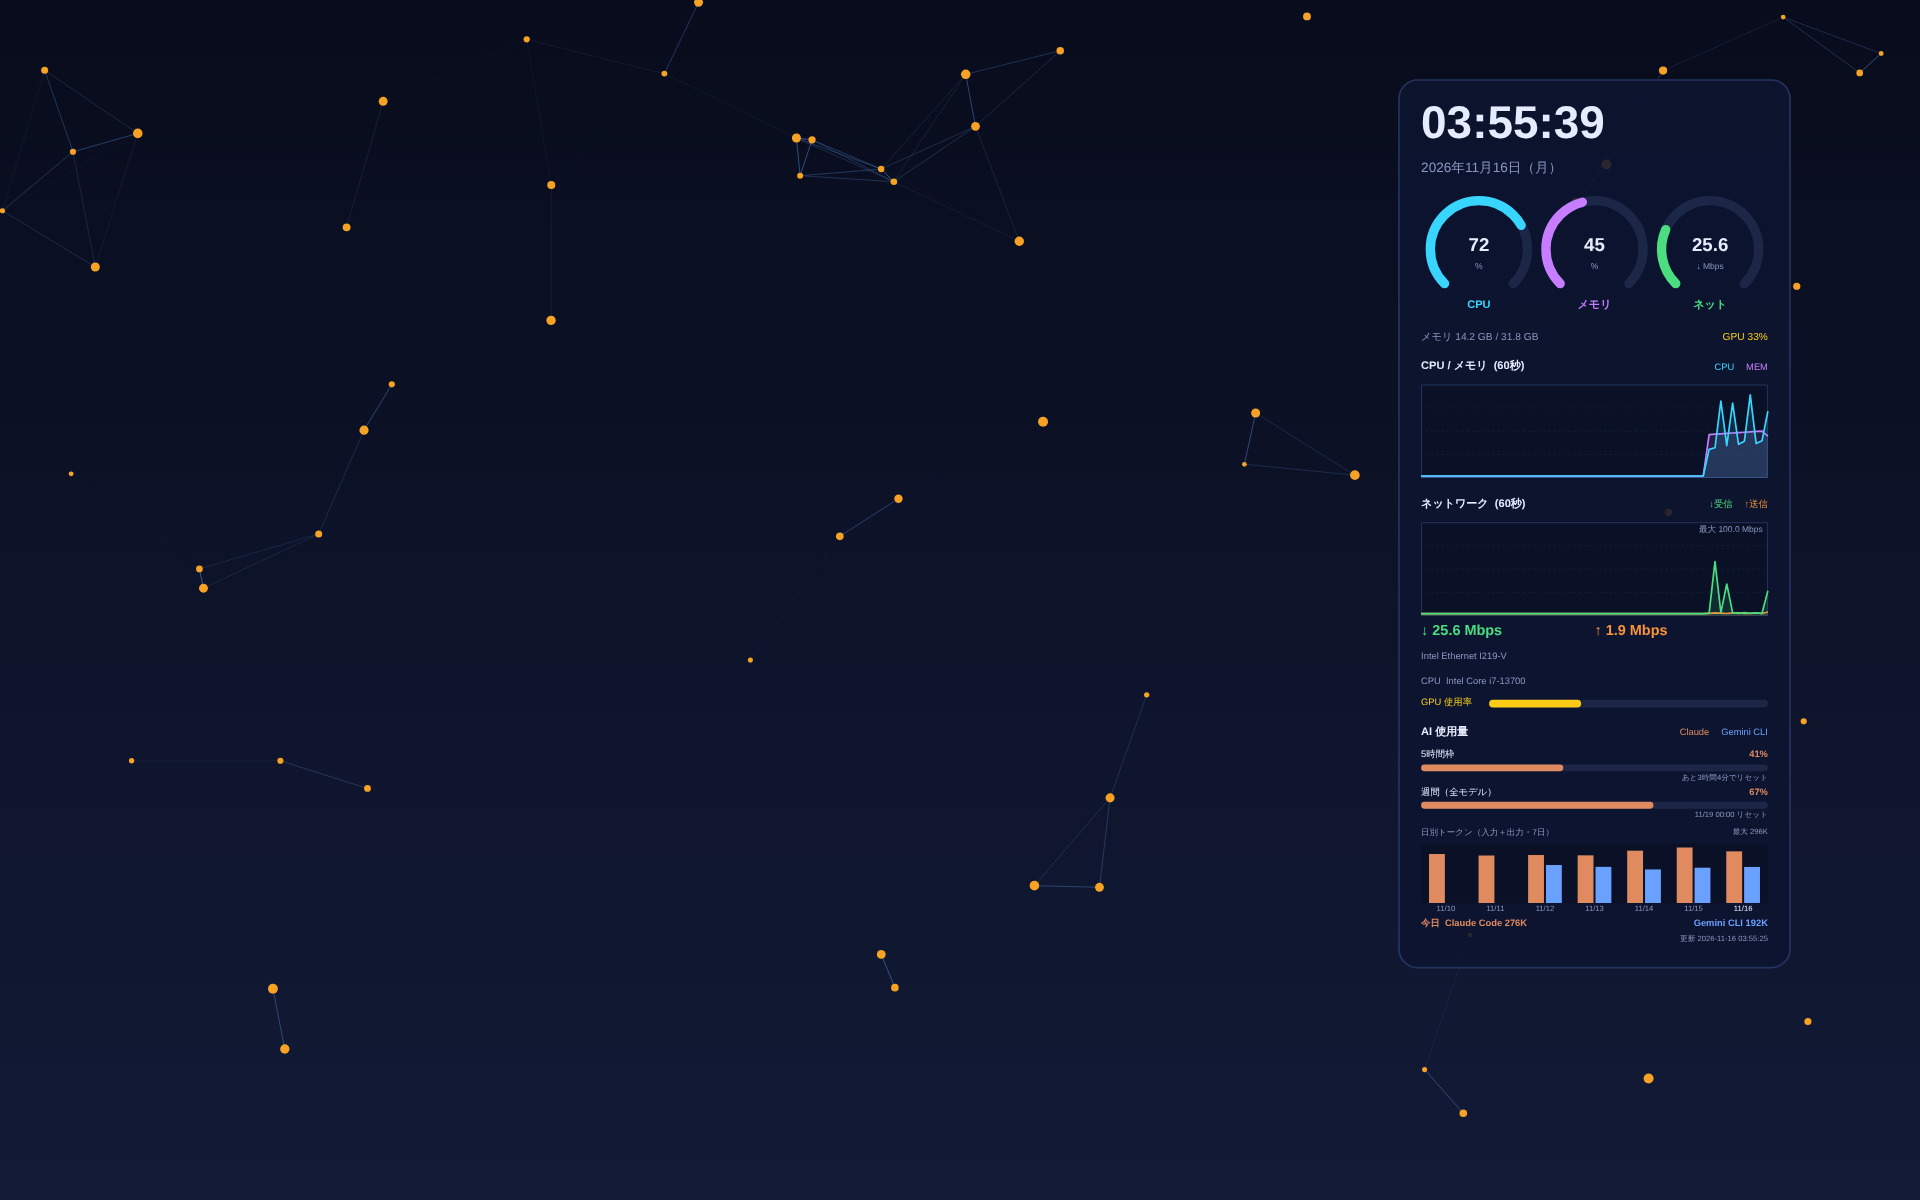
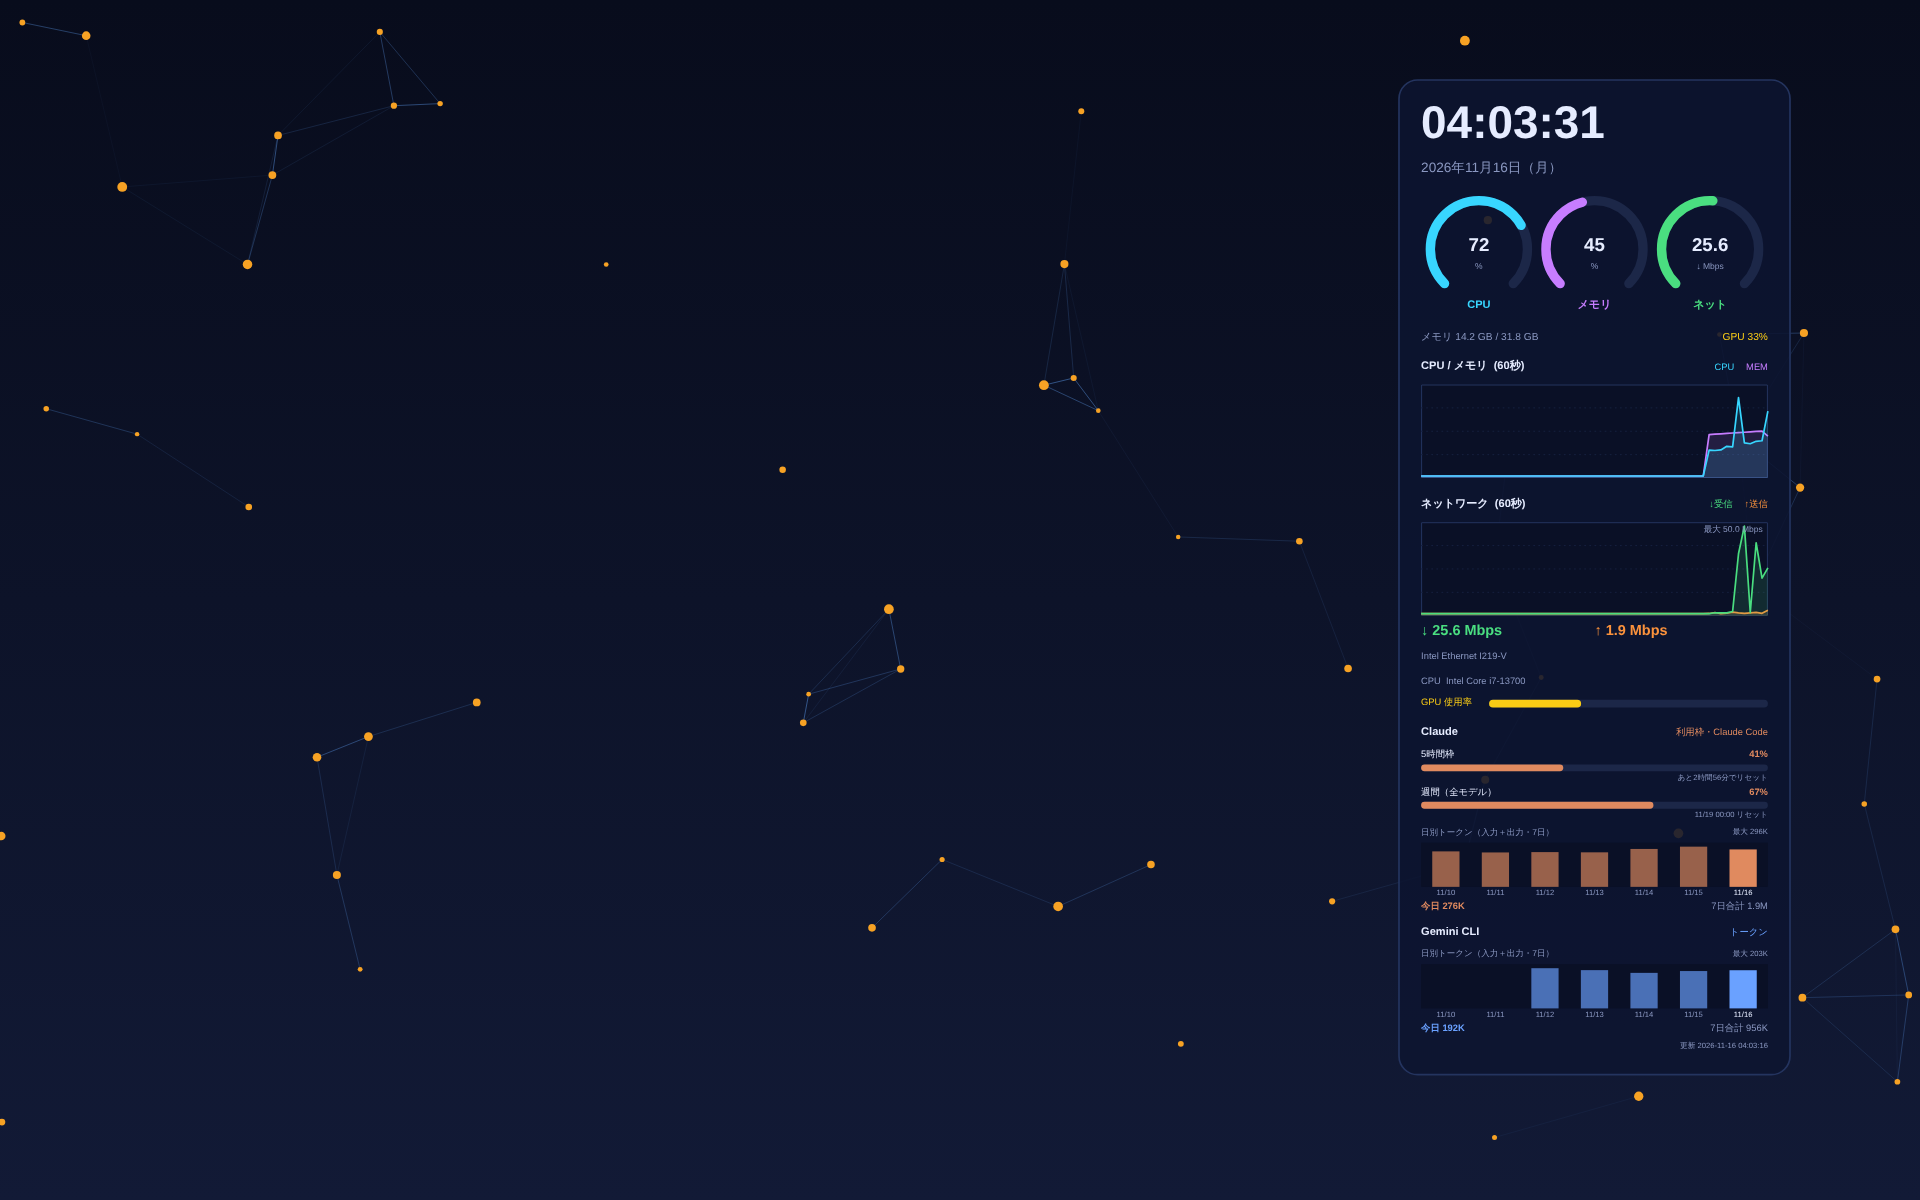
Lively版v4：ClaudeとGemini CLIの使用量を別々の欄・別々の目盛りで表示
Claude-Session: https://claude.ai/code/session_01Ed3vnCFqNZxn8YQ3tcD2rj

diff --git a/moving_desktop/lively/index.html b/moving_desktop/lively/index.html
@@ -330,18 +330,45 @@ function drawPanel() {
 }
 
 // ---------- AI 使用量 ----------
+const tokTotal = r => (r ? (r.in || 0) + (r.out || 0) : 0);
+
+// 直近7日の日別トークン棒グラフ（目盛りはサービスごとに別）
+function dailyChart(ix0, ix1, iw, y, daily, col, name) {
+  if (!daily.length) return y;
+  const max = Math.max(1, ...daily.map(tokTotal));
+  text("日別トークン（入力＋出力・7日）", ix0, y, 10, C.sub);
+  text("最大 " + fmtTok(max), ix1, y, 9, C.sub, "normal", "right");
+  y += 17 * s;
+  const gh = 52 * s, n = daily.length, gw = iw / n, bw = Math.max(3, gw * 0.55);
+  ctx.fillStyle = C.graphBg; ctx.fillRect(ix0, y, iw, gh);
+  for (let i = 0; i < n; i++) {
+    const bx = ix0 + gw * i + gw / 2, v = tokTotal(daily[i]);
+    const h = (gh - 4) * v / max;
+    ctx.fillStyle = i === n - 1 ? col : col + "aa";
+    ctx.fillRect(bx - bw / 2, y + gh - h, bw, h);
+    text(daily[i].date.slice(5).replace("-", "/"), bx, y + gh + 3 * s, 9,
+         i === n - 1 ? C.text : C.sub, "normal", "center");
+  }
+  y += gh + 18 * s;
+  const today = tokTotal(daily[n - 1]);
+  const week = daily.reduce((a, r) => a + tokTotal(r), 0);
+  text(`今日 ${fmtTok(today)}`, ix0, y, 11, col, "bold");
+  text(`7日合計 ${fmtTok(week)}`, ix1, y, 11, C.sub, "normal", "right");
+  return y + 22 * s;
+}
+
 function drawAI(ix0, ix1, iw, y) {
   const D = window.AI_USAGE || (S.demo ? (drawAI.demo ||= demoUsage()) : null);
-  y = sectionTitle(ix0, ix1, y, "AI 使用量", [["Claude", C.claude], ["Gemini CLI", C.gemini]]);
+
+  // ===== Claude =====
+  y = sectionTitle(ix0, ix1, y, "Claude", [["利用枠・Claude Code", C.claude]]);
   if (!D) {
     text("ai_usage_start.bat を実行すると表示されます", ix0, y, 11, C.sub);
     return y + 22 * s;
   }
-
-  // Claude 利用枠
   const cl = D.claude || {};
   if (cl.error) {
-    text("Claude：" + cl.error, ix0, y, 10, C.warn);
+    text(cl.error, ix0, y, 10, C.warn);
     y += 22 * s;
   }
   for (const L of (cl.limits || []).slice(0, 3)) {
@@ -356,33 +383,20 @@ function drawAI(ix0, ix1, iw, y) {
     text(fmtReset(L.resets_at), ix1, y, 9, C.sub, "normal", "right");
     y += 16 * s;
   }
+  y += 4 * s;
+  y = dailyChart(ix0, ix1, iw, y, cl.daily || [], C.claude, "Claude Code");
 
-  // 日別トークン（直近7日）
-  const cd = (cl.daily || []), gd = ((D.gemini || {}).daily || []);
-  const n = Math.max(cd.length, gd.length);
-  if (n) {
-    y += 4 * s;
-    text("日別トークン（入力＋出力・7日）", ix0, y, 10, C.sub);
-    const tot = r => (r ? (r.in || 0) + (r.out || 0) : 0);
-    const max = Math.max(1, ...cd.map(tot), ...gd.map(tot));
-    text("最大 " + fmtTok(max), ix1, y, 9, C.sub, "normal", "right");
-    y += 18 * s;
-    const gh = 70 * s, gw = iw / n, bw = Math.max(2, gw * 0.32);
-    ctx.fillStyle = C.graphBg; ctx.fillRect(ix0, y, iw, gh);
-    for (let i = 0; i < n; i++) {
-      const bx = ix0 + gw * i + gw / 2;
-      const hc = (gh - 4) * tot(cd[i]) / max, hg = (gh - 4) * tot(gd[i]) / max;
-      ctx.fillStyle = C.claude; ctx.fillRect(bx - bw - 1, y + gh - hc, bw, hc);
-      ctx.fillStyle = C.gemini; ctx.fillRect(bx + 1, y + gh - hg, bw, hg);
-      const lab = (cd[i] || gd[i]).date.slice(5).replace("-", "/");
-      text(lab, bx, y + gh + 3 * s, 9, i === n - 1 ? C.text : C.sub, "normal", "center");
-    }
-    y += gh + 18 * s;
-    const ct = tot(cd[cd.length - 1]), gt = tot(gd[gd.length - 1]);
-    text(`今日  Claude Code ${fmtTok(ct)}`, ix0, y, 11, C.claude, "bold");
-    text(`Gemini CLI ${fmtTok(gt)}`, ix1, y, 11, C.gemini, "bold", "right");
+  // ===== Gemini CLI =====
+  y += 6 * s;
+  y = sectionTitle(ix0, ix1, y, "Gemini CLI", [["トークン", C.gemini]]);
+  const gm = D.gemini || {};
+  const gd = gm.daily || [];
+  if (!gd.some(r => tokTotal(r) > 0) && !D.demo) {
+    text("記録が見つかりません（README の Gemini CLI 設定を参照）", ix0, y, 10, C.sub);
     y += 20 * s;
   }
+  y = dailyChart(ix0, ix1, iw, y, gd, C.gemini, "Gemini CLI");
+
   text(`更新 ${D.updated || "-"}`, ix1, y, 9, C.sub, "normal", "right");
   return y + 12 * s;
 }
